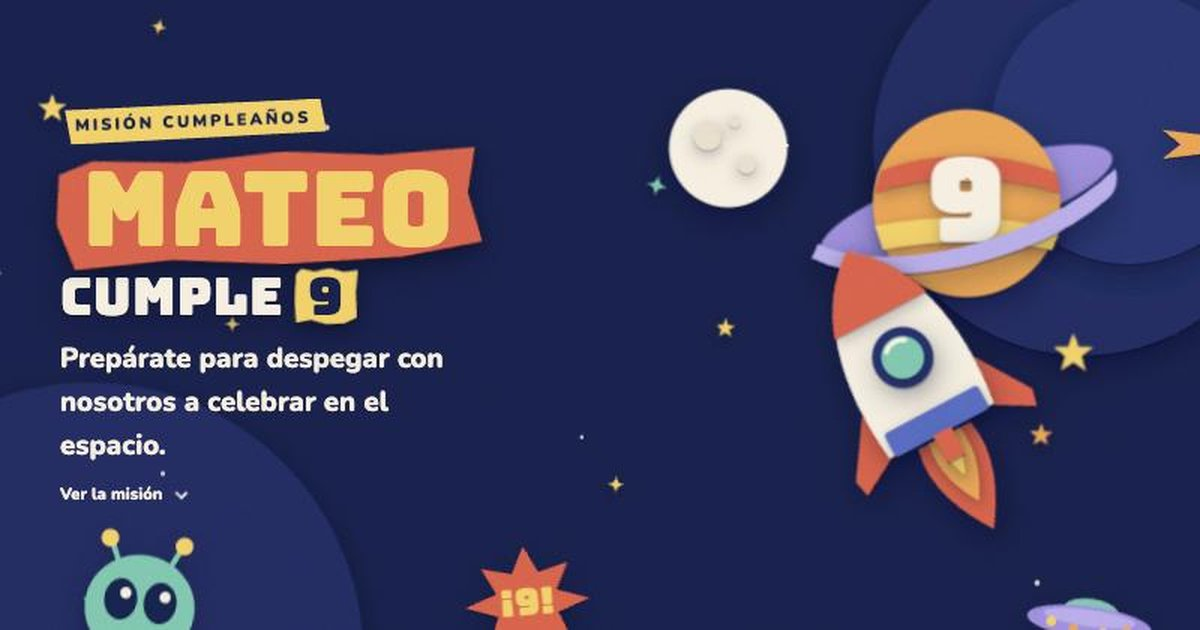
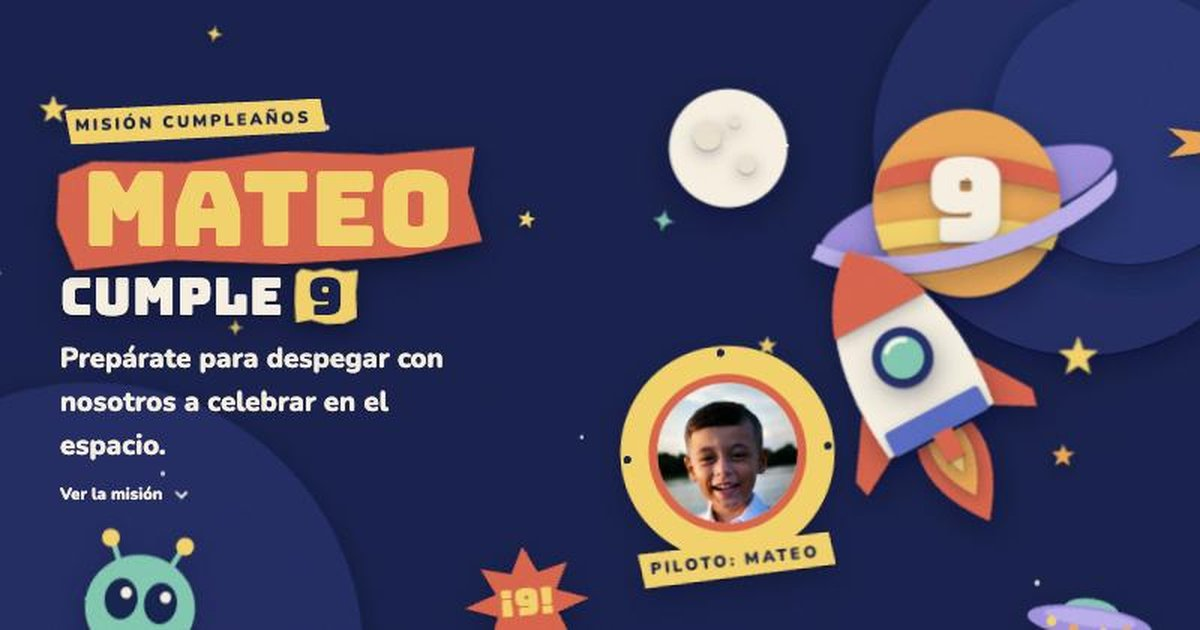
Base en San Pedro Sula y foto de ejemplo de Mateo

diff --git a/index.html b/index.html
@@ -3,7 +3,7 @@
 <head>
 <meta charset="utf-8">
 <meta name="viewport" content="width=device-width, initial-scale=1, viewport-fit=cover">
-<meta name="description" content="Mateo cumple 9: prepárate para despegar.">
+<meta name="description" content="Prepárate para despegar con nosotros a celebrar en el espacio.">
 <meta property="og:type" content="website">
 <meta property="og:url" content="https://danielbabun.github.io/mision-9-mateo/">
 <meta property="og:title" content="¡Mateo cumple 9!">
@@ -17,7 +17,6 @@
 <link rel="icon" type="image/svg+xml" href="favicon.svg">
 <link rel="apple-touch-icon" href="apple-touch-icon.png">
 <meta name="theme-color" content="#16204A">
-<meta name="apple-mobile-web-app-title" content="Misión 9">
 <title>Misión 9 de Mateo</title>
 <link rel="preconnect" href="https://fonts.googleapis.com">
 <link rel="preconnect" href="https://fonts.gstatic.com" crossorigin>
@@ -185,6 +184,13 @@ h1 .nombre .carton{--ct:var(--amarillo)}
 .cuenta,.traer{position:relative;overflow:hidden;isolation:isolate}
 .cuenta .inner,.traer-wrap,.conf-wrap,.mis-wrap{position:relative;z-index:2}
 
+/* ---------- Ventanilla con la foto de Mateo ---------- */
+.ventanilla{position:absolute;left:-2%;bottom:0;width:42%;aspect-ratio:1;max-width:100%;margin:0;border-radius:50%;background:var(--amarillo);padding:5.5%;filter:var(--sombra);animation:ventana 6s ease-in-out infinite alternate;z-index:2}
+.ventanilla::before{content:"";position:absolute;inset:0;border-radius:50%;background:radial-gradient(circle at 50% 3.2%,var(--tinta) 0 1.6%,transparent 1.8%),radial-gradient(circle at 97% 50%,var(--tinta) 0 1.6%,transparent 1.8%),radial-gradient(circle at 50% 97%,var(--tinta) 0 1.6%,transparent 1.8%),radial-gradient(circle at 3% 50%,var(--tinta) 0 1.6%,transparent 1.8%)}
+.ventanilla img{display:block;width:100%;height:100%;object-fit:cover;border-radius:50%;border:clamp(5px,.8vw,9px) solid var(--rojo);position:relative}
+.ventanilla figcaption{position:absolute;left:50%;bottom:-9%;translate:-50% 0;white-space:nowrap}
+@keyframes ventana{from{transform:rotate(-4deg)}to{transform:rotate(3deg) translateY(-10px)}}
+
 /* ---------- Bitácora (fotos) ---------- */
 .bitacora{background:var(--cielo3);padding:0 var(--gutter) clamp(50px,7vw,90px);position:relative;overflow:hidden;isolation:isolate}
 .bit-wrap{max-width:68rem;margin:0 auto;display:grid;gap:clamp(28px,4vw,44px);justify-items:center;text-align:center;position:relative;z-index:2}
@@ -305,6 +311,7 @@ h1 .nombre .carton{--ct:var(--amarillo)}
           <use href="#estrella" class="titila c capa-s" fill="#F39A3D" transform="translate(470 440) scale(1.2)"/>
         </g>
       </svg>
+      <figure class="ventanilla"><img src="fotos/mateo.jpg" alt="Foto de Mateo sonriendo"><figcaption class="etiqueta">Piloto: Mateo</figcaption></figure>
     </div>
   </div>
 
@@ -396,14 +403,14 @@ h1 .nombre .carton{--ct:var(--amarillo)}
       <div class="pase-main">
         <div class="pase-top"><b>Vuelo M-09</b><span class="talon-lbl">Pasajero: tú y tu familia</span></div>
         <div class="ruta">
-          <div class="cod">TGU<small>La Tierra</small></div>
+          <div class="cod">SAP<small>San Pedro Sula, Tierra</small></div>
           <svg viewBox="0 0 70 40" aria-hidden="true"><path d="M2 20 H50" stroke="#16204A" stroke-width="4" stroke-dasharray="6 6"/><path d="M50 8 L68 20 L50 32 Z" fill="#E5533D"/></svg>
           <div class="cod">P-9<small>Planeta 9</small></div>
         </div>
         <div class="campos">
           <div class="campo"><span>Fecha</span><p>Sábado 5 de diciembre de 2026</p></div>
           <div class="campo"><span>Despegue</span><p>3:00 p. m.<br>Aterrizaje 7:00 p. m.</p></div>
-          <div class="campo"><span>Base de lanzamiento</span><p>Salón Galaxia, colonia Palmira, Tegucigalpa<br><a class="enlace" href="https://maps.google.com/?q=Tegucigalpa" target="_blank" rel="noopener">Abrir en el mapa</a></p></div>
+          <div class="campo"><span>Base de lanzamiento</span><p>Salón Galaxia, colonia Trejo, San Pedro Sula<br><a class="enlace" href="https://maps.google.com/?q=San+Pedro+Sula" target="_blank" rel="noopener">Abrir en el mapa</a></p></div>
           <div class="campo"><span>Uniforme</span><p>Ven de astronauta, de alien o como quieras explorar el espacio.</p></div>
         </div>
       </div>
@@ -538,5 +545,6 @@ if (!matchMedia('(prefers-reduced-motion: reduce)').matches && par.length) {
   mover();
 }
 </script>
+
 </body>
 </html>

diff --git a/invitacion.html b/invitacion.html
@@ -166,6 +166,13 @@ h1 .nombre .carton{--ct:var(--amarillo)}
 .cuenta,.traer{position:relative;overflow:hidden;isolation:isolate}
 .cuenta .inner,.traer-wrap,.conf-wrap,.mis-wrap{position:relative;z-index:2}
 
+/* ---------- Ventanilla con la foto de Mateo ---------- */
+.ventanilla{position:absolute;left:-2%;bottom:0;width:42%;aspect-ratio:1;max-width:100%;margin:0;border-radius:50%;background:var(--amarillo);padding:5.5%;filter:var(--sombra);animation:ventana 6s ease-in-out infinite alternate;z-index:2}
+.ventanilla::before{content:"";position:absolute;inset:0;border-radius:50%;background:radial-gradient(circle at 50% 3.2%,var(--tinta) 0 1.6%,transparent 1.8%),radial-gradient(circle at 97% 50%,var(--tinta) 0 1.6%,transparent 1.8%),radial-gradient(circle at 50% 97%,var(--tinta) 0 1.6%,transparent 1.8%),radial-gradient(circle at 3% 50%,var(--tinta) 0 1.6%,transparent 1.8%)}
+.ventanilla img{display:block;width:100%;height:100%;object-fit:cover;border-radius:50%;border:clamp(5px,.8vw,9px) solid var(--rojo);position:relative}
+.ventanilla figcaption{position:absolute;left:50%;bottom:-9%;translate:-50% 0;white-space:nowrap}
+@keyframes ventana{from{transform:rotate(-4deg)}to{transform:rotate(3deg) translateY(-10px)}}
+
 /* ---------- Bitácora (fotos) ---------- */
 .bitacora{background:var(--cielo3);padding:0 var(--gutter) clamp(50px,7vw,90px);position:relative;overflow:hidden;isolation:isolate}
 .bit-wrap{max-width:68rem;margin:0 auto;display:grid;gap:clamp(28px,4vw,44px);justify-items:center;text-align:center;position:relative;z-index:2}
@@ -284,6 +291,7 @@ h1 .nombre .carton{--ct:var(--amarillo)}
           <use href="#estrella" class="titila c capa-s" fill="#F39A3D" transform="translate(470 440) scale(1.2)"/>
         </g>
       </svg>
+      <figure class="ventanilla"><img src="fotos/mateo.jpg" alt="Foto de Mateo sonriendo"><figcaption class="etiqueta">Piloto: Mateo</figcaption></figure>
     </div>
   </div>
 
@@ -375,14 +383,14 @@ h1 .nombre .carton{--ct:var(--amarillo)}
       <div class="pase-main">
         <div class="pase-top"><b>Vuelo M-09</b><span class="talon-lbl">Pasajero: tú y tu familia</span></div>
         <div class="ruta">
-          <div class="cod">TGU<small>La Tierra</small></div>
+          <div class="cod">SAP<small>San Pedro Sula, Tierra</small></div>
           <svg viewBox="0 0 70 40" aria-hidden="true"><path d="M2 20 H50" stroke="#16204A" stroke-width="4" stroke-dasharray="6 6"/><path d="M50 8 L68 20 L50 32 Z" fill="#E5533D"/></svg>
           <div class="cod">P-9<small>Planeta 9</small></div>
         </div>
         <div class="campos">
           <div class="campo"><span>Fecha</span><p>Sábado 5 de diciembre de 2026</p></div>
           <div class="campo"><span>Despegue</span><p>3:00 p. m.<br>Aterrizaje 7:00 p. m.</p></div>
-          <div class="campo"><span>Base de lanzamiento</span><p>Salón Galaxia, colonia Palmira, Tegucigalpa<br><a class="enlace" href="https://maps.google.com/?q=Tegucigalpa" target="_blank" rel="noopener">Abrir en el mapa</a></p></div>
+          <div class="campo"><span>Base de lanzamiento</span><p>Salón Galaxia, colonia Trejo, San Pedro Sula<br><a class="enlace" href="https://maps.google.com/?q=San+Pedro+Sula" target="_blank" rel="noopener">Abrir en el mapa</a></p></div>
           <div class="campo"><span>Uniforme</span><p>Ven de astronauta, de alien o como quieras explorar el espacio.</p></div>
         </div>
       </div>
